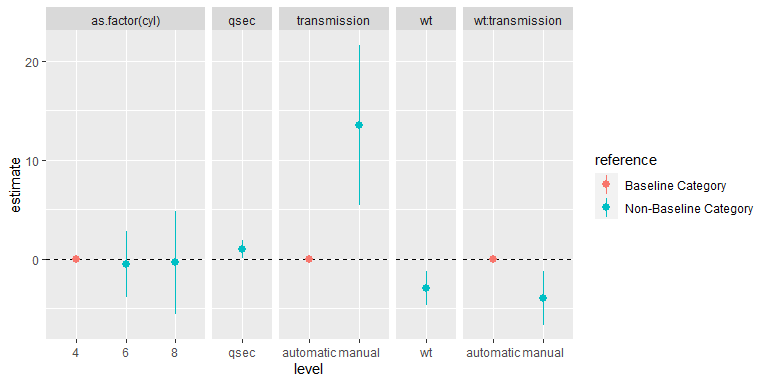
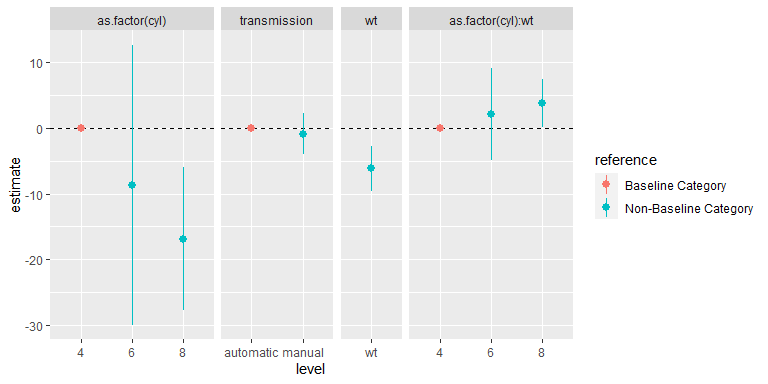
updated readme

diff --git a/README.md b/README.md
@@ -30,19 +30,19 @@ library(broom)
 
 m1 <- mtcars %>%
   mutate(transmission = recode_factor(am, `0` = "automatic", `1` = "manual")) %>%
-  lm(mpg ~ qsec + as.factor(cyl) + wt * transmission , data = .)
+  lm(mpg ~ as.factor(cyl) + transmission + wt *  as.factor(cyl), data = .)
 
 tidy(m1)
 #> # A tibble: 7 x 5
-#>   term                  estimate std.error statistic p.value
-#>   <chr>                    <dbl>     <dbl>     <dbl>   <dbl>
-#> 1 (Intercept)             10.8       9.24      1.17  0.254  
-#> 2 qsec                     0.973     0.454     2.14  0.0419 
-#> 3 as.factor(cyl)6         -0.545     1.62     -0.335 0.740  
-#> 4 as.factor(cyl)8         -0.364     2.52     -0.144 0.886  
-#> 5 wt                      -2.91      0.827    -3.53  0.00166
-#> 6 transmissionmanual      13.5       3.94      3.43  0.00210
-#> 7 wt:transmissionmanual   -3.97      1.31     -3.03  0.00558
+#>   term               estimate std.error statistic       p.value
+#>   <chr>                 <dbl>     <dbl>     <dbl>         <dbl>
+#> 1 (Intercept)          41.5        4.54     9.14  0.00000000190
+#> 2 as.factor(cyl)6      -8.66      10.4     -0.836 0.411        
+#> 3 as.factor(cyl)8     -16.9        5.27    -3.20  0.00374      
+#> 4 transmissionmanual   -0.902      1.51    -0.595 0.557        
+#> 5 wt                   -6.19       1.65    -3.75  0.000937     
+#> 6 as.factor(cyl)6:wt    2.12       3.40     0.625 0.538        
+#> 7 as.factor(cyl)8:wt    3.84       1.77     2.17  0.0399
 ```
 
 The `tidy_categorical()` function adds
@@ -69,18 +69,18 @@ d1 <- m1 %>%
 d1 %>%
   select(-(3:5))
 #> # A tibble: 10 x 8
-#>    term       estimate conf.low conf.high variable   level  effect  reference   
-#>    <chr>         <dbl>    <dbl>     <dbl> <chr>      <fct>  <chr>   <chr>       
-#>  1 (Intercep~   10.8    -8.25       29.8  (Intercep~ (Inte~ main    Non-Baselin~
-#>  2 qsec          0.973   0.0386      1.91 qsec       qsec   main    Non-Baselin~
-#>  3 <NA>          0       0           0    as.factor~ 4      main    Baseline Ca~
-#>  4 as.factor~   -0.545  -3.89        2.80 as.factor~ 6      main    Non-Baselin~
-#>  5 as.factor~   -0.364  -5.56        4.83 as.factor~ 8      main    Non-Baselin~
-#>  6 wt           -2.91   -4.62       -1.21 wt         wt     main    Non-Baselin~
-#>  7 <NA>          0       0           0    transmiss~ autom~ main    Baseline Ca~
-#>  8 transmiss~   13.5     5.40       21.6  transmiss~ manual main    Non-Baselin~
-#>  9 <NA>          0       0           0    wt:transm~ autom~ intera~ Baseline Ca~
-#> 10 wt:transm~   -3.97   -6.67       -1.28 wt:transm~ manual intera~ Non-Baselin~
+#>    term      estimate conf.low conf.high variable    level  effect  reference   
+#>    <chr>        <dbl>    <dbl>     <dbl> <chr>       <fct>  <chr>   <chr>       
+#>  1 (Interce~   41.5     32.1       50.8  (Intercept) (Inte~ main    Non-Baselin~
+#>  2 <NA>         0        0          0    as.factor(~ 4      main    Baseline Ca~
+#>  3 as.facto~   -8.66   -30.0       12.7  as.factor(~ 6      main    Non-Baselin~
+#>  4 as.facto~  -16.9    -27.7       -6.00 as.factor(~ 8      main    Non-Baselin~
+#>  5 <NA>         0        0          0    transmissi~ autom~ main    Baseline Ca~
+#>  6 transmis~   -0.902   -4.02       2.22 transmissi~ manual main    Non-Baselin~
+#>  7 wt          -6.19    -9.59      -2.79 wt          wt     main    Non-Baselin~
+#>  8 <NA>         0        0          0    as.factor(~ 4      intera~ Baseline Ca~
+#>  9 as.facto~    2.12    -4.87       9.12 as.factor(~ 6      intera~ Non-Baselin~
+#> 10 as.facto~    3.84     0.192      7.50 as.factor(~ 8      intera~ Non-Baselin~
 ```
 
 The expanded data frame from `tidy_categorical()` of parameter estimates
@@ -95,10 +95,13 @@ can be particularly useful for creating coefficient plots, allowing:
 For example:
 
 ``` r
+library(forcats)
 library(ggplot2)
 library(ggforce)
+
 d1 %>%
   slice(-1) %>%
+  mutate(variable = fct_inorder(variable)) %>%
   ggplot(mapping = aes(x = level, y = estimate, colour = reference,
                        ymin = conf.low, ymax = conf.high)) +
   facet_row(facets = "variable", scales = "free_x", space = "free") +
